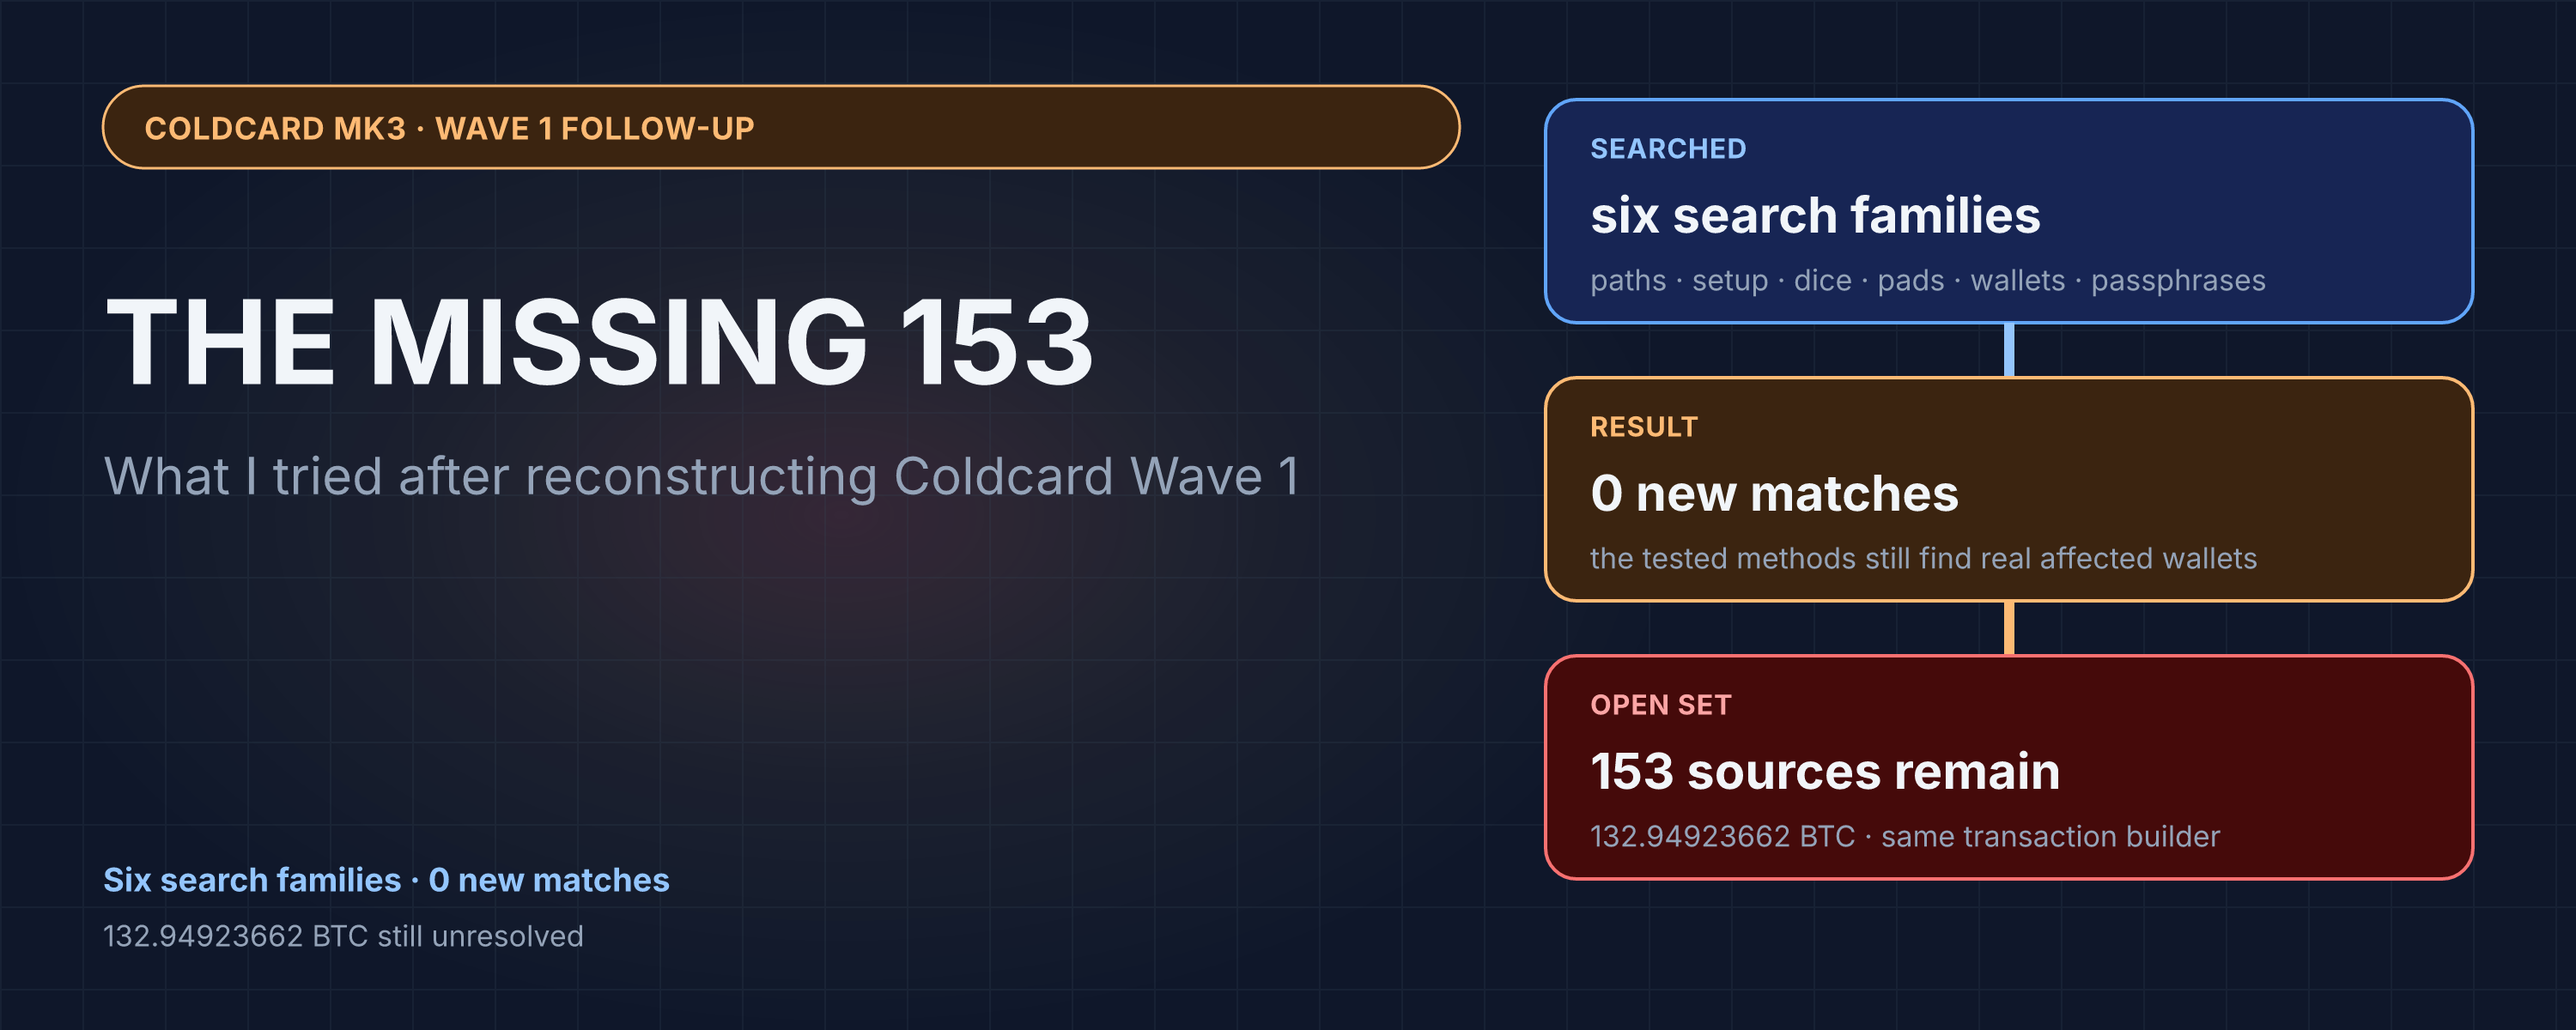
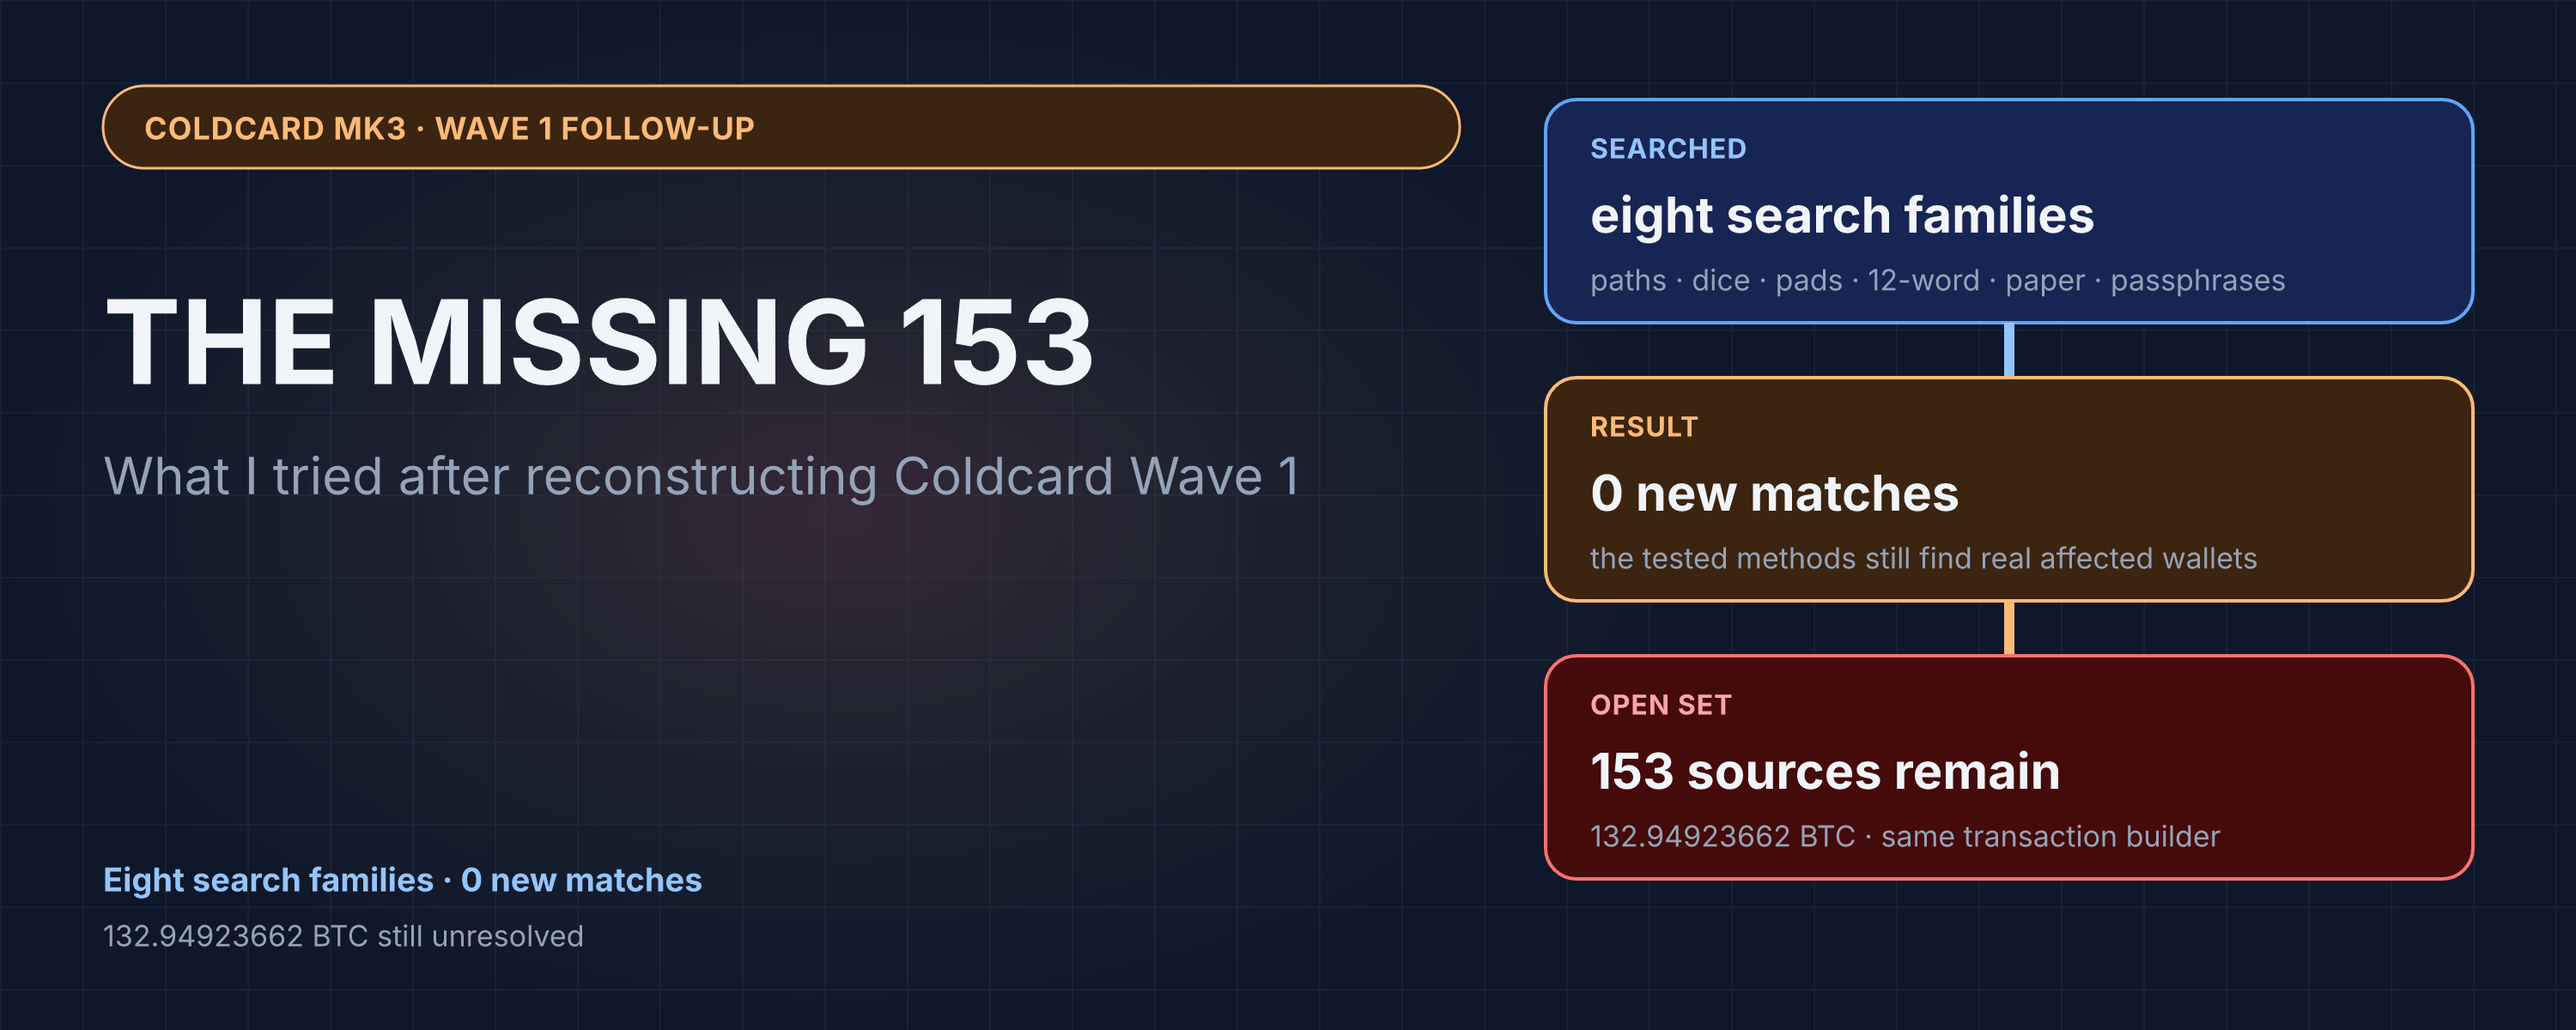
Add 12-word and paper-wallet searches
Record the completed Mk3 5.0.3 12-word and paper-wallet
negative results and update the search-family figures.

Changed region(s): [[0.62, 0.185, 0.899, 0.3083], [0.031, 0.8325, 0.279, 0.8633]]

diff --git a/2026/08-14-coldcard-wave1-missing-153-search.md b/2026/08-14-coldcard-wave1-missing-153-search.md
@@ -2,7 +2,7 @@
 title: "The Missing 153: What I Tried After Reconstructing Coldcard Wave 1"
 author: Praveen Perera
 tags: bitcoin, security, coldcard, rng, entropy, forensics
-description: A complete account of the derivation paths, Coldcard states, pad ranges, dice rolls, and passphrases tested while searching for the 153 unresolved Wave 1 addresses
+description: A complete account of the derivation paths, Coldcard states, pad ranges, dice rolls, passphrases, 12-word seeds, and paper wallets tested while searching for the 153 unresolved Wave 1 addresses
 twitter:
   image: https://praveenperera.com/images/posts/coldcard-missing153-og-dark.png
   image:width: "2400"
@@ -27,14 +27,18 @@ This is another reason for this post. By showing the paths I tested and where ea
 
 The 153 missing addresses remain an important clue. I still do not know what they mean.
 
-None of these tests recovered a seed behind the 153. The repeated failures are hard to reconcile with the simple search that found the rest of Wave 1. I now consider these explanations possible but highly unlikely.
+None of these tests recovered a seed or paper-wallet key behind the 153. The repeated failures are hard to reconcile with the simple search that found the rest of Wave 1. I now consider these explanations possible but highly unlikely.
 
-The strongest new evidence concerns passphrases. A scan of all 2,048 lowercase BIP39 words across 1,014 recovered mnemonics found 74 historically funded passphrase addresses holding 32.77836472 BTC immediately before Wave 1. Wave 1 took the empty-passphrase wallets from those same seeds but left every passphrase address untouched. A broader scan then checked 83,035 common passphrases against the same 1,014 mnemonics. It found 97 funded addresses, but none belonged to Wave 1. These results make common passphrases an unlikely explanation for the missing 153. Something is probably still missing from the way I model the attacker’s seed search.
+The strongest new evidence concerns passphrases. A scan of all 2,048 lowercase BIP39 words across 1,014 recovered mnemonics found 74 historically funded passphrase addresses holding 32.77836472 BTC immediately before Wave 1. Wave 1 took the empty-passphrase wallets from those same seeds but left every passphrase address untouched. A broader scan then checked 83,035 common passphrases against the same 1,014 mnemonics. It found 97 funded addresses, but none belonged to Wave 1. These results make common passphrases an unlikely explanation for the missing 153.
+
+I later tested two other key origins. Mk3 firmware 5.0.3 can make a 12-word seed from the same weak generator. Coldcard can also emit a paper wallet as a raw private key. Both searches used the pad groups and keypad counts that produced the recovered Wave 1 wallets. The 12-word path found no funded address. The first four paper-wallet keys matched none of the 153 revealed public keys. Something is probably still missing from the way I model the attacker’s seed search.
 
 ## What I tried
 
 - [Wider Bitcoin wallet paths](#wider-bitcoin-derivation-paths): I searched higher indexes, change addresses, more accounts, and wrapped SegWit. The searches found affected wallets and reproduced known Wave 1 seeds, but found none of the 153.
 - [Other Coldcard setup sequences](#other-coldcard-setup-sequences): I tested settings saves, migration, login-keypad changes, countdowns, erased state, and nine other sequences. They found real affected wallets and known Wave 1 seeds, but none of the 153.
+- [12-word seeds](#12-word-seeds): Mk3 firmware 5.0.3 can make a 12-word seed from the same weak generator. Two searches of that path, 198,180,864 seeds each, found no funded address and none of the 149 unresolved native-SegWit sources.
+- [Paper wallets](#paper-wallets): Coldcard can emit a raw secp256k1 private key instead of a BIP39 seed. The first four paper-wallet generations, 792,723,456 keys, matched none of the 153 revealed public keys.
 - [Added dice rolls](#added-dice-rolls): One-roll and two-roll searches found historically funded seeds outside Wave 1. A wider partial search also found funded seeds, but no tested dice result belonged to Wave 1.
 - [Larger pad ranges](#larger-pad-ranges): I tested higher pad groups and samples from the full 32-bit range. The searches either found nothing or reproduced seeds I already knew. None found one of the 153.
 - [Other wallets from recovered seeds](#other-wallets-from-recovered-seeds): I checked wider BIP44, BIP49, and BIP84 paths, BIP85 children, the Coldcard duress path, Samourai paths, Wasabi use, and known weak passphrases. None produced one of the 153.
@@ -57,16 +61,16 @@ Of these sources, 149 use native SegWit and four use wrapped SegWit. Their theft
 
 <picture>
   <source media="(prefers-color-scheme: dark)" srcset="../images/posts/coldcard-missing153-clue-dark.svg">
-  <img src="../images/posts/coldcard-missing153-clue-light.svg" alt="Six search families produce no new matches while the same 153 Wave 1 sources remain unresolved">
+  <img src="../images/posts/coldcard-missing153-clue-light.svg" alt="Eight search families produce no new matches while the same 153 Wave 1 sources remain unresolved">
 </picture>
 
 [The public CSV][3] contains the 153 addresses, their script types, Wave 1 branches, sweep heights, input counts, and swept values. Here, “unresolved” means that none of the recovered seeds produced the source address on the paths I tested. The transactions and addresses themselves are not in doubt.
 
 ## What a negative result means
 
-I used two types of search. One replayed the weak Coldcard RNG to look for unknown seeds. The other started from recovered seeds and checked related wallets, such as other accounts, BIP85 children, duress wallets, Samourai paths, and passphrase wallets.
+I used three types of search. One replayed the weak Coldcard RNG to look for unknown seeds. Another started from recovered seeds and checked related wallets, such as other accounts, BIP85 children, duress wallets, Samourai paths, and passphrase wallets. A third replayed the same generator as a raw paper-wallet private key and compared the compressed public key with the keys revealed when Wave 1 spent the 153 sources.
 
-The first type can find a new seed, but only within the device states and wallet paths tested. The second cannot find a new root seed, but it shows what the attacker probably checked after finding one. This is why the passphrase result is useful.
+The first type can find a new seed, but only within the device states and wallet paths tested. The second cannot find a new root seed, but it shows what the attacker probably checked after finding one. This is why the passphrase result is useful. The paper-wallet search can find a raw key that no mnemonic search would produce, but only for the generations and device states tested.
 
 ## Wider Bitcoin derivation paths
 
@@ -109,6 +113,34 @@ I tested specific sequences involving settings saves, migration, randomized logi
 I also tested nine other sequences across 53,084,160 possible seeds. They found eight affected seeds. Four were new and outside Wave 1. Two known Wave 1 seeds reproduced six already-explained source addresses. None matched an unresolved source.
 
 The alternative sequences produced real, historically funded wallets and reproduced known Wave 1 evidence. None crossed into the unresolved set. Substituting one of these tested sequences for the main sequence does not explain the gap.
+
+## 12-word seeds
+
+The recovered Wave 1 seeds are 24-word mnemonics. That is the Coldcard default. Mk3 firmware 5.0.3, released on May 4, 2022, added a 12-word item to the New Seed Words menu. The earlier Mk3 5.0.1 build still made only 24-word seeds. The Mk3 5.0.3 path still uses the same weak generator.
+
+The firmware takes 32 weak random bytes, hashes them once, and uses only the first 16 digest bytes as BIP39 entropy. The result is an English 12-word mnemonic. A 24-word seed cannot be shortened into this candidate. I had to generate the 12-word path directly.
+
+I searched native-SegWit account-zero receive indexes 0–25 for keypad counts 8–55 and pad groups 14–76, with no added dice and an empty passphrase. That range covers the pad groups and keypad counts that produced the recovered Wave 1 wallets. The search tested 198,180,864 possible seeds against the funded native-SegWit snapshot from block 960182.
+
+A follow-up used the exact ordered v5 setup sequence for those same keypad counts, pad groups, and wallet path. It tested another 198,180,864 possible seeds.
+
+Both searches found no funded address. None of the 149 unresolved native-SegWit sources appeared. The four wrapped-SegWit sources were outside this search.
+
+Forty-four of the 153 were first funded on or before the 5.0.3 release. Those addresses cannot come from a native 12-word generation after that date. The other 109 were first funded later, which does not prove that their seeds were created later. The completed 12-word searches still found none of them.
+
+A native Mk3 5.0.3 12-word wallet on the usual first-account receive path is now an unlikely general explanation. The result does not close 12-word generation on other accounts, change addresses, wrapped SegWit, added dice, or other firmware.
+
+## Paper wallets
+
+Coldcard can also emit a paper wallet as a raw secp256k1 private key. That path does not create a BIP39 mnemonic or a BIP32 root. A seed search cannot find this key class.
+
+The firmware takes 32 bytes from the same weak generator and uses them as a private key. If the value is not a valid curve scalar, it takes another 32 bytes. Each later paper-wallet generation in the same session continues from that generator state.
+
+When Wave 1 spent the 153 sources, each transaction revealed the compressed public key. I compared every tested paper-wallet key with those 153 public keys. Direct public-key comparison covers both the 149 native-SegWit sources and the four wrapped-SegWit sources.
+
+I searched the first four valid paper-wallet keys from one session, for keypad counts 8–55 and pad groups 14–76, with a zero clock state. The search tested 792,723,456 private keys. None matched.
+
+The first four paper-wallet keys from that device box do not explain the 153. The result does not close a fifth or later generation, a paper wallet created after other setup operations, other keypad counts, other pad groups, or a nonzero clock state.
 
 ## Added dice rolls
 
@@ -203,6 +235,8 @@ For each possible seed, the search generated Bitcoin addresses and checked them 
 
 I checked that all 153 unresolved addresses were in the snapshot. If a tested seed had produced one of them on a tested path, the search would have reported a match.
 
+The paper-wallet search did not use that snapshot. It compared compressed public keys with the keys revealed when Wave 1 spent the 153 sources.
+
 ## What remains open
 
 These are not equally likely, and most do not have a natural endpoint.
@@ -218,9 +252,11 @@ These are not equally likely, and most do not have a natural endpoint.
 | More values from the full 32-bit pad range | The completed higher ranges found nothing. A 24.7-billion-seed sample of the full range found only known seeds, and a separate 6.25% sample found nothing. Another researcher has also reported a wider zero result. | Testing all `2^32` pad values again for every keypad count and wallet path would require hundreds of billions of additional seed checks. |
 | A nonzero real-time-clock state | The firmware disables the relevant RTC and hardware-RNG paths, device evidence supports a zero RTC state, and no recovered Wave 1 seed requires a nonzero value. | An arbitrary clock value adds another large input range with no evidence-based bound. |
 | Three or more added dice rolls or other entropy combinations | Every recovered Wave 1 seed uses zero added rolls. The native-SegWit search found four historically funded seeds with one or two added rolls, all outside Wave 1. The finished part of the wider dice search also found funded seeds, but none in Wave 1. | Each roll multiplies the possible inputs by six, before wallet paths and device states are added. |
-| Another affected firmware release or Coldcard device model | The current model explains 1,042 Wave 1 sources across all three branches. Other tested device sequences found affected wallets but did not enter the unresolved set. | Each one needs its own source review, device sequence, and seed generator before it can be searched. There is no specific alternative to test yet. |
+| Another affected firmware release or Coldcard device model | The current 24-word model explains 1,042 Wave 1 sources across all three branches. The tested Mk3 5.0.3 12-word path found no funded address. Other tested device sequences found affected wallets but did not enter the unresolved set. | Each one needs its own source review, device sequence, and seed generator before it can be searched. |
+| Mk3 5.0.3 12-word wallets on other paths | The completed 12-word searches used the same pad groups and keypad counts that produced Wave 1. Both found no funded native-SegWit address and none of the 149 unresolved native sources. | Other accounts, change addresses, wrapped SegWit, added dice, and other firmware each repeat the seed search. |
+| Later paper-wallet generations or other paper-wallet sessions | The first four generations in that device box matched none of the 153 revealed public keys. | Each later generation, and each other setup sequence before paper-wallet generation, multiplies the search. |
 | Passphrases outside the tested lists, nonstandard paths, or an unknown root mnemonic | The attacker left 74 easy, funded one-word passphrase addresses untouched while taking empty-passphrase wallets from the same seeds. A wider test of 83,035 common passphrases found 97 funded addresses, but none from Wave 1. | An exhaustive two-word BIP39 search requires about 4.25 billion PBKDF2 checks. Three words require about 8.7 trillion, arbitrary strings have no limit, and unknown mnemonics add the full seed search. |
-| An imported seed or another seed-generation method | A securely generated imported seed is not exposed by the Coldcard RNG flaw. This would require a second way for the attacker to learn the seeds, and I have no evidence of one. | There is no finite search until another weak generator, leak, or source of seed data is identified. |
+| An imported seed or another seed-generation method | A securely generated imported seed is not exposed by the Coldcard RNG flaw. The tested paper-wallet keys also failed to match. This would require a second way for the attacker to learn the seeds, and I have no evidence of one. | There is no finite search until another weak generator, leak, or source of seed data is identified. |
 | An input or search method that the reconstruction does not model | This is the exception: I think it is now the leading possibility. The tested methods keep finding real affected wallets, but all stop at the same 153 before transaction creation. | I cannot search it until I can identify the missing input or turn the method into a concrete candidate generator. |
 
 The searches do not support Taproot, multisig, or a legacy-only explanation for the 153 because the sources themselves are 149 native-SegWit and four wrapped-SegWit single-key addresses. Multisig or Taproot activity elsewhere cannot directly produce these source scripts.
@@ -229,13 +265,15 @@ The searches do not support Taproot, multisig, or a legacy-only explanation for 
 
 The final 153 do not look like a random collection of paths that the search barely missed. Their missing rate changes sharply by Wave 1 branch: 4.80% in Original 500, 15.48% in Holding 2, and 25.98% in Holding 3. At the same time, all three groups use the same theft transaction builder.
 
-Each method can find real affected wallets. Wider paths and other Coldcard sequences found real seeds. Added-dice searches found real seeds. The full-pad sample reproduced known Wave 1 seeds. The one-word and common-passphrase searches found real funded wallets. Yet every method stopped at the same 153.
+Each earlier method can find real affected wallets. Wider paths and other Coldcard sequences found real seeds. Added-dice searches found real seeds. The full-pad sample reproduced known Wave 1 seeds. The one-word and common-passphrase searches found real funded wallets. The later 12-word and paper-wallet searches did not add a new match either. The 12-word path found no funded address in the tested box. The paper-wallet search matched none of the 153 public keys.
 
-This makes simple wallet-path, dice, passphrase, and pad-range explanations unlikely. I think the search still lacks an input, initial state, device sequence, or other method that the attacker used before creating the theft transactions.
+This makes simple wallet-path, dice, passphrase, pad-range, 12-word, and paper-wallet explanations unlikely. I think the search still lacks an input, initial state, device sequence, or other method that the attacker used before creating the theft transactions.
 
 The 153 remain unresolved. I will update this post as I try more paths.
 
 ## Edit history
+
+**August 16, 2026:** I added the completed Mk3 5.0.3 12-word searches and the paper-wallet raw-key search. The 12-word path found no funded address. The first four paper-wallet generations matched none of the 153 revealed public keys.
 
 **August 14, 2026:** I added the completed common-passphrase search. It checked 83,035 passphrases against all 1,014 recovered mnemonics and found 97 funded addresses. None was part of Wave 1.
 
